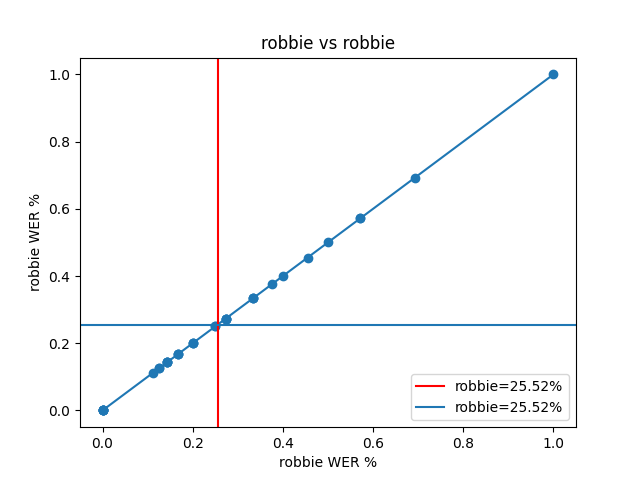
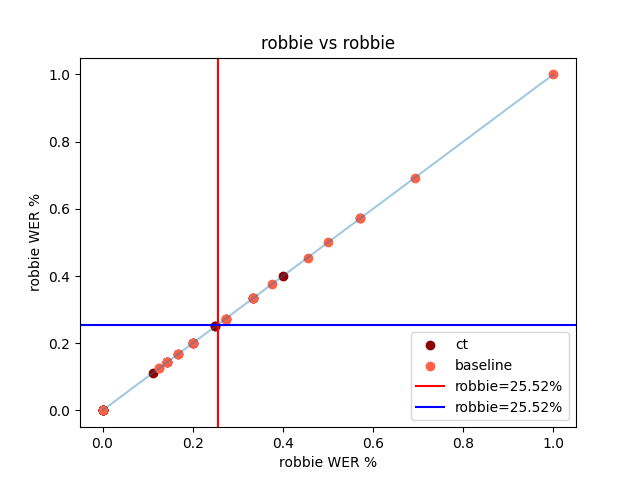
Tweaked plotting

diff --git a/src/wer.py b/src/wer.py
@@ -13,7 +13,7 @@ def main(cfg: DictConfig):
     plt.savefig(f"transcripts/{cfg.listener}.png")
 
 
-def plot_wer(cfg: DictConfig, streamlit=False):
+def plot_wer(cfg: DictConfig):
 
     base = "robbie"
     target = cfg.listener
@@ -37,30 +37,43 @@ def plot_wer(cfg: DictConfig, streamlit=False):
 
         keys = sorted(segments.keys())
 
-        scores[person] = []
-
+        scores[person] = {"ct": [], "baseline": []}
+        all_scores = []
         for k in keys:
+            session = k.split(".")[0]
+
             gt = segments[k]["ground_truth"]
             res = segments[k]["response"]
 
             wer = jiwer.wer(gt, res, transformation, transformation)
-            scores[person].append(wer)
 
-    base_mean = np.mean(scores[base])
-    target_mean = np.mean(scores[target])
+            if session in ["dev_03", "dev_04"]:
+                scores[person]["ct"].append(wer)
+            else:
+                scores[person]["baseline"].append(wer)
+            all_scores.append(wer)
 
-    highest = max(max(scores[base]), max(scores[target]))
+    base_mean = np.mean(scores[base]["ct"] + scores[base]["baseline"])
+    target_mean = np.mean(scores[target]["ct"] + scores[target]["baseline"])
+
+    highest = max(all_scores)
 
     fig, ax = plt.subplots()
 
-    ax.plot([0, highest], [0, highest])
-    ax.scatter(scores[base], scores[target])
+    ax.plot([0, highest], [0, highest], alpha=0.4)
+    ax.scatter(scores[base]["ct"], scores[target]["ct"], color="darkred", label="ct")
+    ax.scatter(
+        scores[base]["baseline"],
+        scores[target]["baseline"],
+        color="tomato",
+        label="baseline",
+    )
     ax.set_title(f"{base} vs {target}")
     ax.set_xlabel(f"{base} WER %")
     ax.set_ylabel(f"{target} WER %")
 
     ax.axvline(base_mean, color="r", label=f"{base}={base_mean:.2%}")
-    ax.axhline(target_mean, label=f"{target}={target_mean:.2%}")
+    ax.axhline(target_mean, color="b", label=f"{target}={target_mean:.2%}")
     ax.legend()
 
     return fig
